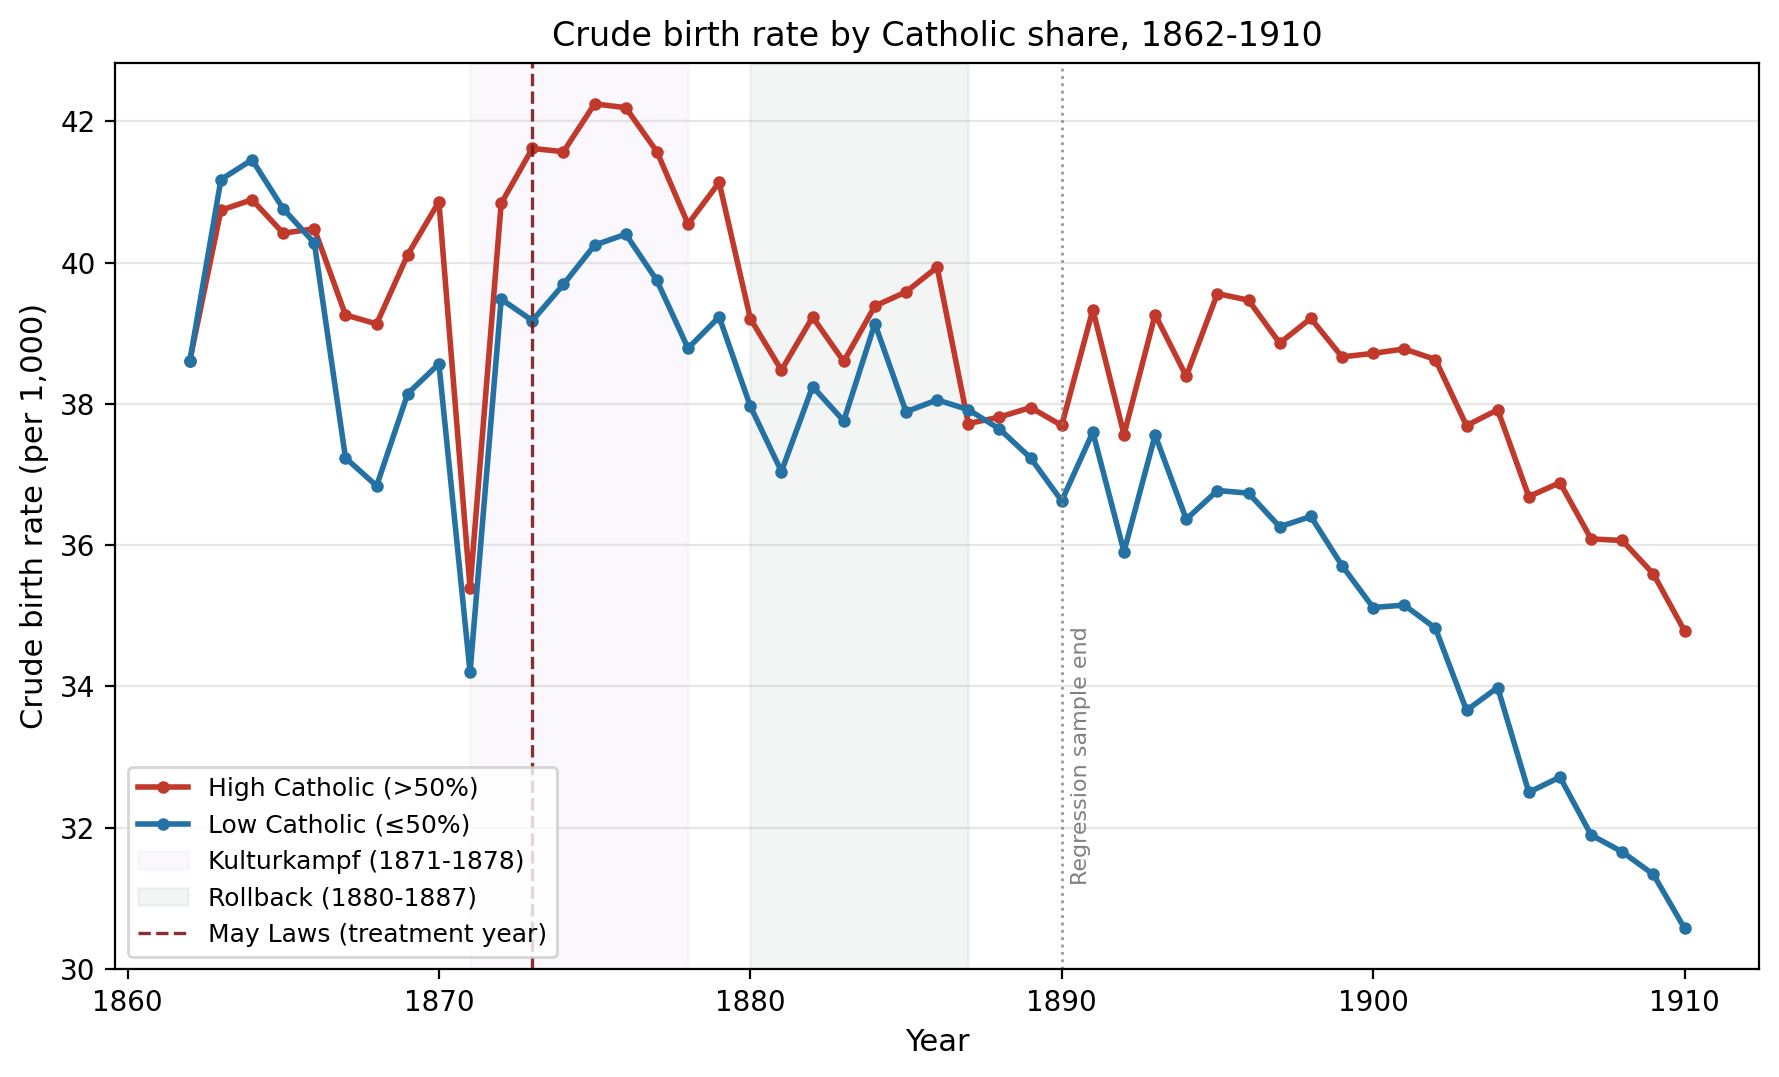
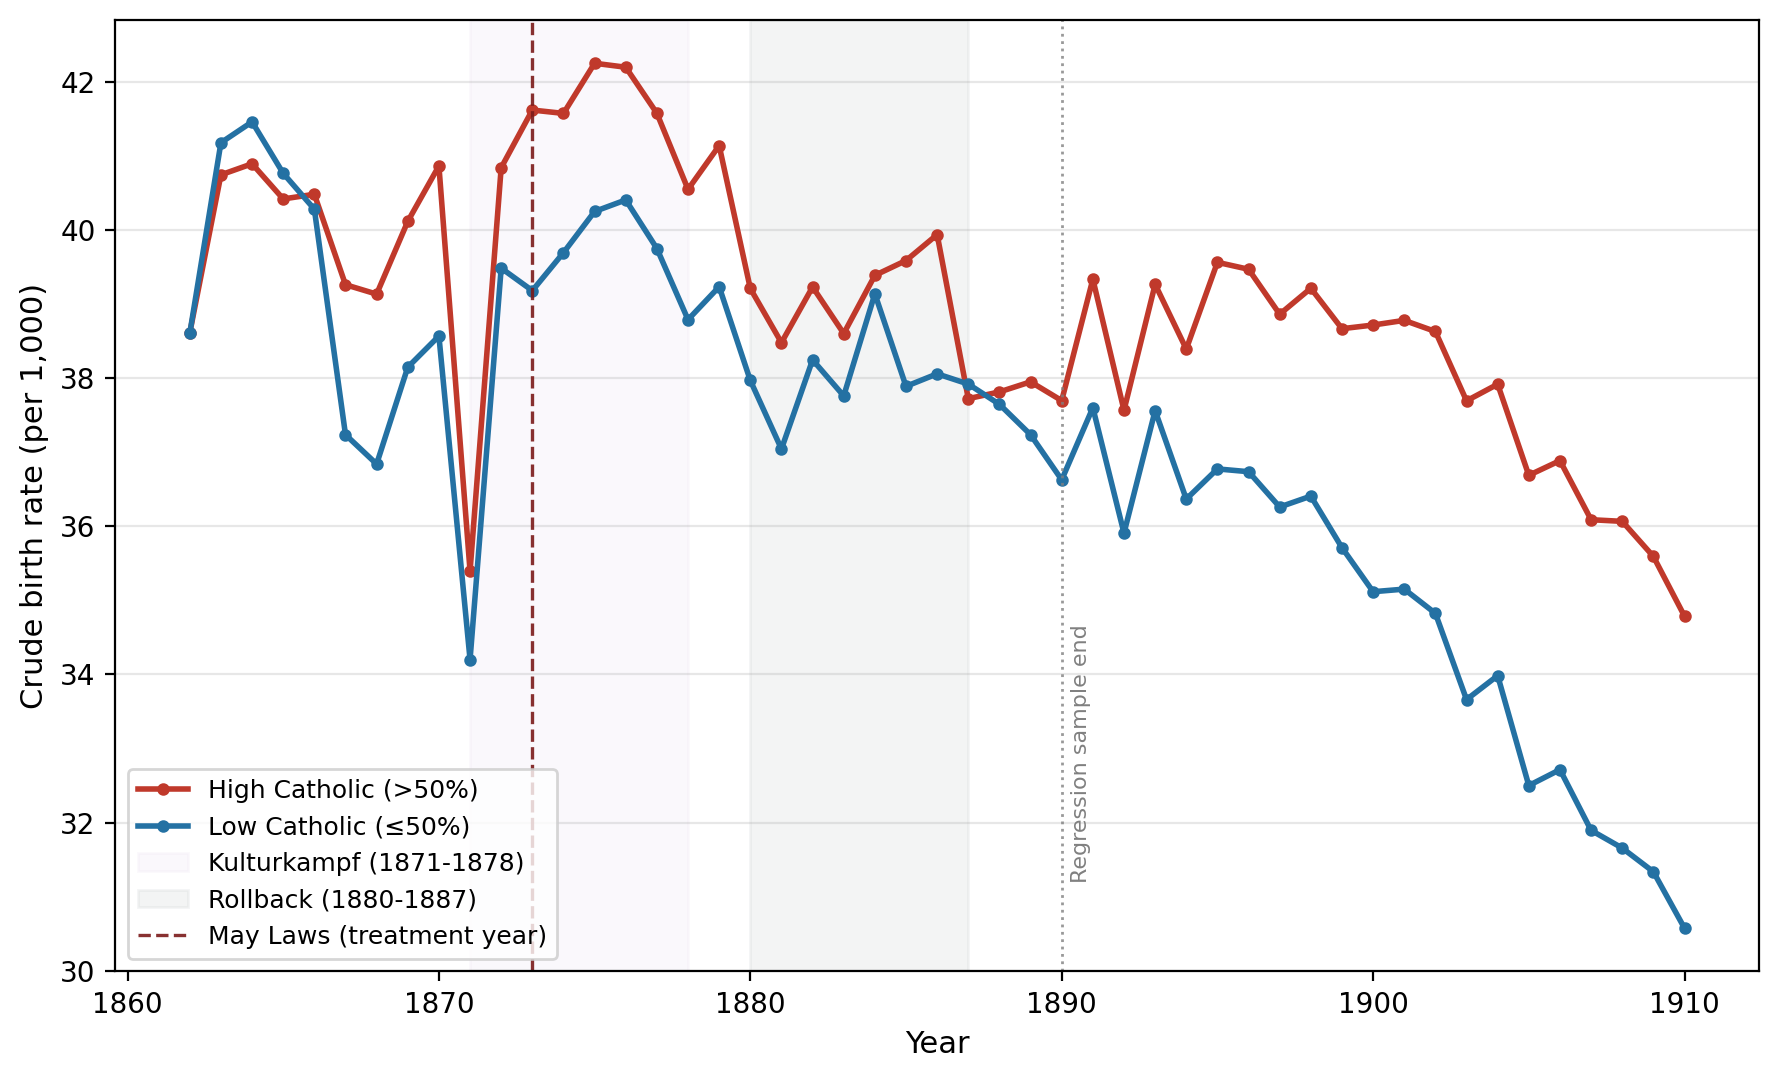
feat: drop figure titles for paper-ready plots
Removes titles from the figures that carried them (long-run CBR/GMFR
descriptive plots, SDID trajectory and time-weight plots). The caption
in LaTeX is the right place for that information, so the figures now
travel with no embedded title and avoid duplicating the caption.

- synthetic_did.py: plot_synthetic_vs_treated only sets a title when
  one is explicitly passed (instead of auto-generating "SDID -- ... |
  tau=..." every call).
- notebooks/05_synthetic_did.ipynb: drop the per-panel time-weight
  title; move the CMR/CBR label into the x-axis instead so a re-run
  produces the same title-free output.
- Regenerate fig_cbr_1862_1910, fig_gmfr_1862_1910, fig_sdid_cbr,
  fig_sdid_marriage_rate, and fig_sdid_time_weights without titles.

diff --git a/exam_project2/src/analysis/synthetic_did.py b/exam_project2/src/analysis/synthetic_did.py
@@ -640,13 +640,8 @@ def plot_synthetic_vs_treated(
                 edgecolor="none", zorder=0,
             )
 
-    se = f"{res.se:.3f}" if res.se is not None else "n/a"
-    if title is None:
-        title = (
-            f"SDID — {res.outcome} | {res.treat_col} | "
-            f"τ̂={res.tau_hat:+.3f} (SE {se})"
-        )
-    ax.set_title(title)
+    if title is not None:
+        ax.set_title(title)
     ax.set_xlabel("Year")
     ax.set_ylabel(res.outcome)
     ax.legend(loc="best", frameon=False)
